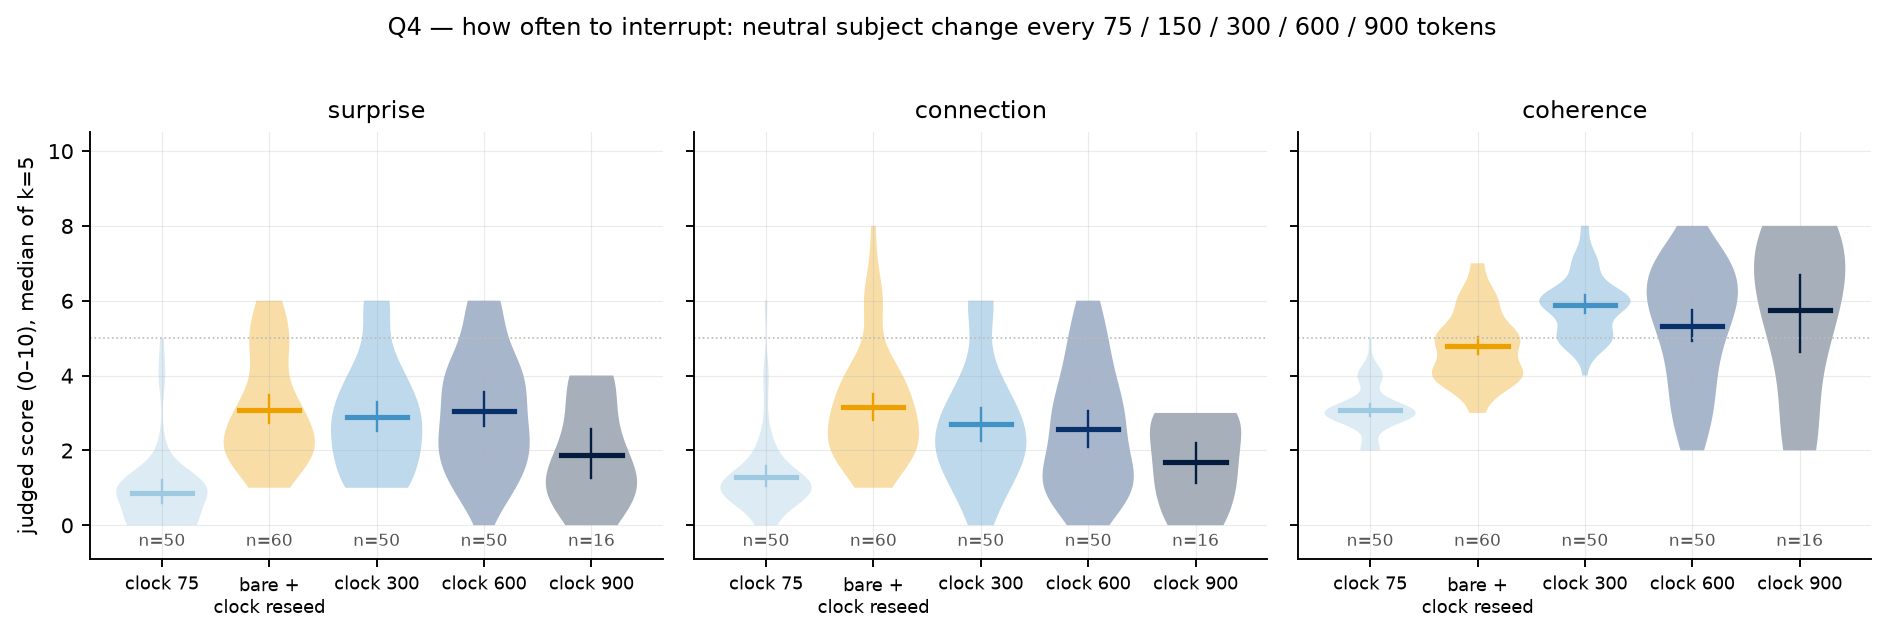
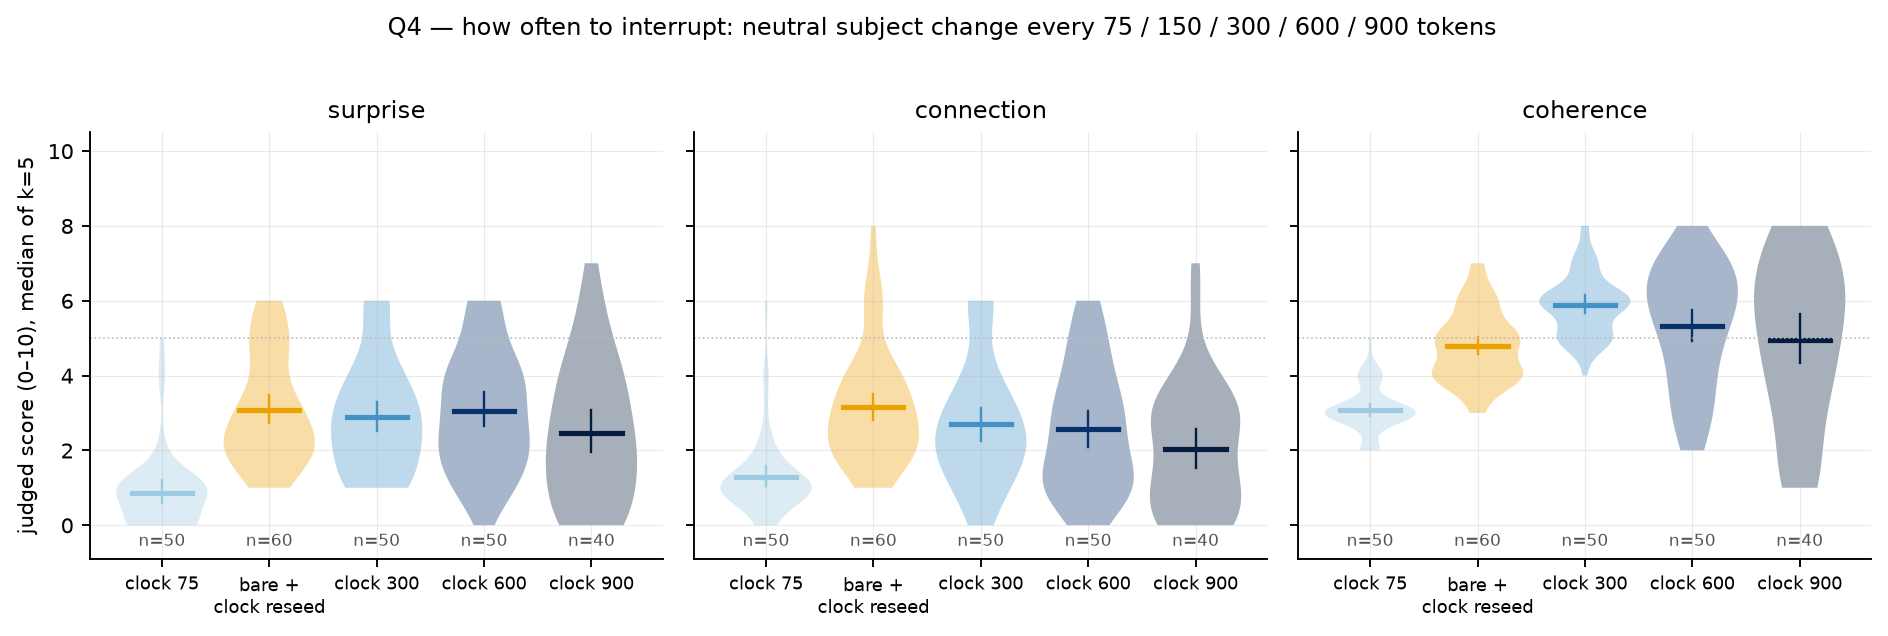
PAPER_DREAM §5.1: timing (salience is a good reader, a bad metronome) and frequency with phase-weighted stream means

diff --git a/scripts/analysis_b2.py b/scripts/analysis_b2.py
@@ -214,8 +214,8 @@ def main() -> None:
     # Q4b — phase: judged score vs tokens since the last injection, per frequency (all judged windows of the cell)
     freq = [("clock75", 75), ("bare_reseed", 150), ("clock300", 300), ("clock600", 600), ("clock900", 900)]
     md.append("\n### Q4b — phase within the segment: score by tokens since the last interruption (all judged windows, both kinds)\n")
-    md.append("| every | windows | pooled surprise | conn | coh | early (≤160 tokens since injection) S / C / H | late (>160) S / C / H |")
-    md.append("|---|---|---|---|---|---|---|")
+    md.append("| every | windows | pooled surprise | conn | coh | early (≤160 tokens since injection) S / C / H | late (>160) S / C / H | phase-weighted stream mean S / C / H |")
+    md.append("|---|---|---|---|---|---|---|---|")
     fig, axes = plt.subplots(1, 2, figsize=(12, 3.8))
     for cond, every in freq:
         rows = [r for r in sel(cond) if r.get("since_injection") is not None]
@@ -224,9 +224,17 @@ def main() -> None:
         early = [r for r in rows if r["since_injection"] <= 160]
         late = [r for r in rows if r["since_injection"] > 160]
         f = lambda rs, d: f"{np.mean([r[d] for r in rs]):.2f}" if rs else "—"
+        # the judged sample over-represents one phase; re-weight by the stream's actual phase composition
+        w_early = min(1.0, 160.0 / every)
+        def wmean(d):
+            e = np.mean([r[d] for r in early]) if early else np.nan
+            l = np.mean([r[d] for r in late]) if late else np.nan
+            if not late: return e
+            return w_early * e + (1 - w_early) * l
         md.append(f"| {every} | {len(rows)} | {f(rows,'surprise')} | {f(rows,'connection')} | {f(rows,'coherence')} | "
                   f"{f(early,'surprise')} / {f(early,'connection')} / {f(early,'coherence')} (n={len(early)}) | "
-                  f"{f(late,'surprise')} / {f(late,'connection')} / {f(late,'coherence')} (n={len(late)}) |")
+                  f"{f(late,'surprise')} / {f(late,'connection')} / {f(late,'coherence')} (n={len(late)}) | "
+                  f"{wmean('surprise'):.2f} / {wmean('connection'):.2f} / {wmean('coherence'):.2f} |")
         # binned curve
         bins = [(0, 160), (160, 320), (320, 480), (480, 640), (640, 1000)]
         xs, ys, es = [], [], []

diff --git a/docs/APPENDIX_B2.md b/docs/APPENDIX_B2.md
@@ -1,6 +1,6 @@
 # Appendix — battery 2 (auto-generated by scripts/analysis_b2.py)
 
-1063 judged windows total (801 from battery 2).
+1208 judged windows total (946 from battery 2).
 
 
 ### Q1 — the confound: habituation without interruption
@@ -54,36 +54,36 @@ vs **neutral subject change (clock 150)** (Δ mean, 95% bootstrap CI over window
 | condition | windows | kind | surprise | connection | coherence | good (S≥5&H≥5) |
 |---|---|---|---|---|---|---|
 | re-encounter on the clock (150) | 50 | cut | 2.68 ± 1.46 | 3.64 ± 1.57 | 4.72 ± 1.33 | 5/50 |
-| re-encounter on the clock (900; matched frequency) | 12 | cut | 2.83 ± 1.91 | 2.25 ± 1.74 | 3.92 ± 1.44 | 2/12 |
-| neutral change on the clock (900; matched frequency) | 16 | cut | 1.88 ± 1.32 | 1.69 ± 1.10 | 5.75 ± 2.02 | 0/16 |
+| re-encounter on the clock (900; matched frequency) | 40 | cut | 2.73 ± 1.95 | 2.30 ± 1.82 | 4.67 ± 1.59 | 6/40 |
+| neutral change on the clock (900; matched frequency) | 40 | cut | 2.48 ± 1.87 | 2.02 ± 1.68 | 4.95 ± 2.16 | 5/40 |
 | re-encounter on salience events (event windows) | 80 | crystallize/cut/jump/recurrence | 3.92 ± 1.42 | 2.99 ± 1.73 | 3.75 ± 1.18 | 8/80 |
 | re-encounter on salience events (uniform windows) | 60 | clock | 2.18 ± 2.04 | 1.68 ± 1.65 | 3.93 ± 1.88 | 4/60 |
-| re-encounter on the clock (900), uniform windows | 18 | clock | 4.39 ± 1.60 | 3.50 ± 1.54 | 5.00 ± 1.63 | 7/18 |
-| neutral change on the clock (900), uniform windows | 22 | clock | 5.45 ± 2.08 | 2.91 ± 2.00 | 5.95 ± 1.26 | 16/22 |
+| re-encounter on the clock (900), uniform windows | 60 | clock | 4.70 ± 1.69 | 3.48 ± 1.52 | 5.50 ± 1.41 | 31/60 |
+| neutral change on the clock (900), uniform windows | 60 | clock | 5.48 ± 1.64 | 2.87 ± 1.56 | 5.95 ± 1.32 | 45/60 |
 | salience only, no injection (event windows) | 38 | crystallize/jump/recurrence | 2.63 ± 1.75 | 1.39 ± 1.42 | 3.71 ± 1.60 | 2/38 |
 
 vs **re-encounter on the clock (150)** (Δ mean, 95% bootstrap CI over windows; Cliff's δ; Mann-Whitney p; paired-by-seed Δ [CI]):
 
 | condition | dim | Δ [CI] | δ | p | paired-by-seed Δ [CI] (n seeds) |
 |---|---|---|---|---|---|
-| re-encounter on the clock (900; matched frequency) | surprise | +0.15 [-0.97, +1.31] | +0.04 | 8.6e-01 | +0.50 [-0.55, +1.75] (3) |
-| re-encounter on the clock (900; matched frequency) | connection | **-1.39 [-2.41, -0.25]** | -0.46 | 1.2e-02 | -1.35 [-3.60, +1.00] (3) |
-| re-encounter on the clock (900; matched frequency) | coherence | -0.80 [-1.72, +0.08] | -0.29 | 1.1e-01 | -0.62 [-2.25, +1.55] (3) |
-| neutral change on the clock (900; matched frequency) | surprise | **-0.81 [-1.56, -0.02]** | -0.30 | 6.5e-02 | -0.68 [-1.75, +0.40] (4) |
-| neutral change on the clock (900; matched frequency) | connection | **-1.95 [-2.65, -1.27]** | -0.65 | 7.4e-05 | -1.81 [-3.07, -0.64] (4) |
-| neutral change on the clock (900; matched frequency) | coherence | +1.03 [-0.06, +2.06] | +0.36 | 3.0e-02 | +1.30 [+0.02, +2.57] (4) |
+| re-encounter on the clock (900; matched frequency) | surprise | +0.04 [-0.68, +0.78] | -0.03 | 8.1e-01 | +0.04 [-0.53, +0.66] (10) |
+| re-encounter on the clock (900; matched frequency) | connection | **-1.34 [-2.03, -0.62]** | -0.45 | 2.2e-04 | -1.34 [-2.17, -0.53] (10) |
+| re-encounter on the clock (900; matched frequency) | coherence | -0.04 [-0.65, +0.58] | -0.02 | 8.9e-01 | -0.05 [-0.87, +0.73] (10) |
+| neutral change on the clock (900; matched frequency) | surprise | -0.21 [-0.90, +0.51] | -0.10 | 4.4e-01 | -0.21 [-0.84, +0.36] (10) |
+| neutral change on the clock (900; matched frequency) | connection | **-1.62 [-2.28, -0.92]** | -0.51 | 2.5e-05 | -1.61 [-2.17, -1.13] (10) |
+| neutral change on the clock (900; matched frequency) | coherence | +0.23 [-0.56, +0.99] | +0.11 | 3.5e-01 | +0.23 [-0.45, +1.07] (10) |
 | re-encounter on salience events (event windows) | surprise | **+1.24 [+0.73, +1.75]** | +0.44 | 2.0e-05 | +1.10 [+0.34, +1.85] (10) |
 | re-encounter on salience events (event windows) | connection | **-0.65 [-1.23, -0.06]** | -0.24 | 2.2e-02 | -0.92 [-1.55, -0.29] (10) |
 | re-encounter on salience events (event windows) | coherence | **-0.97 [-1.41, -0.52]** | -0.39 | 1.5e-04 | -0.86 [-1.72, -0.06] (10) |
 | re-encounter on salience events (uniform windows) | surprise | -0.50 [-1.14, +0.15] | -0.21 | 5.5e-02 | -0.50 [-1.11, -0.01] (10) |
 | re-encounter on salience events (uniform windows) | connection | **-1.96 [-2.54, -1.35]** | -0.61 | 2.7e-08 | -1.96 [-2.62, -1.37] (10) |
 | re-encounter on salience events (uniform windows) | coherence | **-0.79 [-1.38, -0.19]** | -0.25 | 2.1e-02 | -0.79 [-1.31, -0.29] (10) |
-| re-encounter on the clock (900), uniform windows | surprise | **+1.71 [+0.81, +2.51]** | +0.58 | 2.4e-04 | +2.06 [+1.20, +2.67] (3) |
-| re-encounter on the clock (900), uniform windows | connection | -0.14 [-0.98, +0.68] | -0.02 | 9.3e-01 | -0.10 [-1.43, +1.33] (3) |
-| re-encounter on the clock (900), uniform windows | coherence | +0.28 [-0.55, +1.11] | +0.09 | 5.6e-01 | +0.47 [-0.07, +0.97] (3) |
-| neutral change on the clock (900), uniform windows | surprise | **+2.77 [+1.77, +3.68]** | +0.69 | 2.7e-06 | +2.85 [+1.46, +4.23] (4) |
-| neutral change on the clock (900), uniform windows | connection | -0.73 [-1.67, +0.22] | -0.25 | 9.2e-02 | -0.62 [-2.92, +1.57] (4) |
-| neutral change on the clock (900), uniform windows | coherence | **+1.23 [+0.56, +1.84]** | +0.53 | 2.5e-04 | +1.55 [+0.20, +2.38] (4) |
+| re-encounter on the clock (900), uniform windows | surprise | **+2.02 [+1.43, +2.60]** | +0.64 | 5.9e-09 | +2.02 [+1.62, +2.44] (10) |
+| re-encounter on the clock (900), uniform windows | connection | -0.16 [-0.74, +0.43] | -0.03 | 7.7e-01 | -0.16 [-0.68, +0.37] (10) |
+| re-encounter on the clock (900), uniform windows | coherence | **+0.78 [+0.29, +1.30]** | +0.31 | 4.4e-03 | +0.78 [+0.40, +1.15] (10) |
+| neutral change on the clock (900), uniform windows | surprise | **+2.80 [+2.23, +3.37]** | +0.77 | 1.9e-12 | +2.80 [+2.04, +3.59] (10) |
+| neutral change on the clock (900), uniform windows | connection | **-0.77 [-1.37, -0.18]** | -0.27 | 1.3e-02 | -0.77 [-1.78, +0.23] (10) |
+| neutral change on the clock (900), uniform windows | coherence | **+1.23 [+0.74, +1.73]** | +0.48 | 7.2e-06 | +1.23 [+0.56, +1.84] (10) |
 | salience only, no injection (event windows) | surprise | -0.05 [-0.73, +0.64] | -0.05 | 7.0e-01 | +0.18 [-0.80, +1.31] (10) |
 | salience only, no injection (event windows) | connection | **-2.25 [-2.87, -1.62]** | -0.73 | 3.8e-09 | -2.11 [-3.00, -1.16] (10) |
 | salience only, no injection (event windows) | coherence | **-1.01 [-1.64, -0.37]** | -0.35 | 4.5e-03 | -0.87 [-1.92, +0.12] (10) |
@@ -96,10 +96,10 @@ vs **re-encounter on the clock (150)** (Δ mean, 95% bootstrap CI over windows; 
 | every 150 (before injection) | 60 | clock | 3.08 ± 1.48 | 3.15 ± 1.53 | 4.78 ± 0.95 | 12/60 |
 | every 300 (before injection) | 50 | cut | 2.90 ± 1.50 | 2.70 ± 1.63 | 5.88 ± 0.82 | 7/50 |
 | every 600 (before injection) | 50 | cut | 3.06 ± 1.58 | 2.56 ± 1.66 | 5.32 ± 1.62 | 6/50 |
-| every 900 (before injection) | 16 | cut | 1.88 ± 1.32 | 1.69 ± 1.10 | 5.75 ± 2.02 | 0/16 |
+| every 900 (before injection) | 40 | cut | 2.48 ± 1.87 | 2.02 ± 1.68 | 4.95 ± 2.16 | 5/40 |
 | every 300 (mid-segment) | 60 | clock | 4.93 ± 1.53 | 3.47 ± 1.68 | 6.07 ± 0.98 | 34/60 |
 | every 600 (mid-segment) | 60 | clock | 4.12 ± 1.83 | 2.70 ± 1.63 | 5.65 ± 1.54 | 23/60 |
-| every 900 (mid-segment) | 22 | clock | 5.45 ± 2.08 | 2.91 ± 2.00 | 5.95 ± 1.26 | 16/22 |
+| every 900 (mid-segment) | 60 | clock | 5.48 ± 1.64 | 2.87 ± 1.56 | 5.95 ± 1.32 | 45/60 |
 
 vs **every 150 (before injection)** (Δ mean, 95% bootstrap CI over windows; Cliff's δ; Mann-Whitney p; paired-by-seed Δ [CI]):
 
@@ -114,48 +114,48 @@ vs **every 150 (before injection)** (Δ mean, 95% bootstrap CI over windows; Cli
 | every 600 (before injection) | surprise | -0.02 [-0.60, +0.54] | -0.00 | 9.8e-01 | -0.02 [-0.74, +0.60] (10) |
 | every 600 (before injection) | connection | -0.59 [-1.19, +0.01] | -0.21 | 4.9e-02 | -0.59 [-1.28, +0.03] (10) |
 | every 600 (before injection) | coherence | **+0.54 [+0.03, +1.03]** | +0.26 | 1.8e-02 | +0.54 [-0.09, +1.13] (10) |
-| every 900 (before injection) | surprise | **-1.21 [-1.94, -0.45]** | -0.45 | 5.3e-03 | -0.96 [-2.06, -0.21] (4) |
-| every 900 (before injection) | connection | **-1.46 [-2.12, -0.80]** | -0.53 | 9.8e-04 | -1.27 [-2.88, +0.08] (4) |
-| every 900 (before injection) | coherence | +0.97 [-0.09, +1.96] | +0.38 | 1.8e-02 | +0.79 [-1.40, +2.33] (4) |
+| every 900 (before injection) | surprise | -0.61 [-1.28, +0.08] | -0.21 | 6.7e-02 | -0.61 [-1.41, +0.18] (10) |
+| every 900 (before injection) | connection | **-1.12 [-1.78, -0.47]** | -0.38 | 1.1e-03 | -1.12 [-2.11, -0.26] (10) |
+| every 900 (before injection) | coherence | +0.17 [-0.56, +0.88] | +0.12 | 3.1e-01 | +0.17 [-0.79, +1.12] (10) |
 | every 300 (mid-segment) | surprise | **+1.85 [+1.30, +2.38]** | +0.60 | 9.0e-09 | +1.85 [+1.23, +2.33] (10) |
 | every 300 (mid-segment) | connection | +0.32 [-0.27, +0.88] | +0.13 | 2.0e-01 | +0.32 [-0.30, +0.77] (10) |
 | every 300 (mid-segment) | coherence | **+1.28 [+0.93, +1.62]** | +0.63 | 1.1e-09 | +1.28 [+0.88, +1.68] (10) |
 | every 600 (mid-segment) | surprise | **+1.03 [+0.45, +1.62]** | +0.33 | 1.3e-03 | +1.03 [+0.58, +1.47] (10) |
 | every 600 (mid-segment) | connection | -0.45 [-1.03, +0.10] | -0.17 | 9.1e-02 | -0.45 [-1.00, +0.17] (10) |
 | every 600 (mid-segment) | coherence | **+0.87 [+0.40, +1.32]** | +0.42 | 4.6e-05 | +0.87 [+0.32, +1.43] (10) |
-| every 900 (mid-segment) | surprise | **+2.37 [+1.40, +3.27]** | +0.64 | 6.9e-06 | +2.56 [+2.21, +2.94] (4) |
-| every 900 (mid-segment) | connection | -0.24 [-1.12, +0.69] | -0.13 | 3.7e-01 | -0.08 [-0.17, +0.00] (4) |
-| every 900 (mid-segment) | coherence | **+1.17 [+0.56, +1.72]** | +0.58 | 3.3e-05 | +1.04 [+0.42, +1.71] (4) |
+| every 900 (mid-segment) | surprise | **+2.40 [+1.83, +2.93]** | +0.70 | 1.5e-11 | +2.40 [+1.98, +2.78] (10) |
+| every 900 (mid-segment) | connection | -0.28 [-0.83, +0.27] | -0.09 | 3.8e-01 | -0.28 [-0.75, +0.10] (10) |
+| every 900 (mid-segment) | coherence | **+1.17 [+0.75, +1.57]** | +0.56 | 7.2e-08 | +1.17 [+0.78, +1.57] (10) |
 
 ### Q4b — phase within the segment: score by tokens since the last interruption (all judged windows, both kinds)
 
-| every | windows | pooled surprise | conn | coh | early (≤160 tokens since injection) S / C / H | late (>160) S / C / H |
-|---|---|---|---|---|---|---|
-| 75 | 60 | 0.88 | 1.35 | 3.15 | 0.88 / 1.35 / 3.15 (n=60) | — / — / — (n=0) |
-| 150 | 60 | 3.08 | 3.15 | 4.78 | 3.08 / 3.15 / 4.78 (n=60) | — / — / — (n=0) |
-| 300 | 110 | 4.01 | 3.12 | 5.98 | 5.28 / 3.35 / 5.95 (n=40) | 3.29 / 2.99 / 6.00 (n=70) |
-| 600 | 110 | 3.64 | 2.64 | 5.50 | 5.40 / 3.20 / 5.65 (n=20) | 3.24 / 2.51 / 5.47 (n=90) |
-| 900 | 38 | 3.95 | 2.39 | 5.87 | 6.00 / 2.87 / 6.20 (n=15) | 2.61 / 2.09 / 5.65 (n=23) |
+| every | windows | pooled surprise | conn | coh | early (≤160 tokens since injection) S / C / H | late (>160) S / C / H | phase-weighted stream mean S / C / H |
+|---|---|---|---|---|---|---|---|
+| 75 | 60 | 0.88 | 1.35 | 3.15 | 0.88 / 1.35 / 3.15 (n=60) | — / — / — (n=0) | 0.88 / 1.35 / 3.15 |
+| 150 | 60 | 3.08 | 3.15 | 4.78 | 3.08 / 3.15 / 4.78 (n=60) | — / — / — (n=0) | 3.08 / 3.15 / 4.78 |
+| 300 | 110 | 4.01 | 3.12 | 5.98 | 5.28 / 3.35 / 5.95 (n=40) | 3.29 / 2.99 / 6.00 (n=70) | 4.35 / 3.18 / 5.97 |
+| 600 | 110 | 3.64 | 2.64 | 5.50 | 5.40 / 3.20 / 5.65 (n=20) | 3.24 / 2.51 / 5.47 (n=90) | 3.82 / 2.69 / 5.52 |
+| 900 | 100 | 4.28 | 2.53 | 5.55 | 5.90 / 2.80 / 6.10 (n=40) | 3.20 / 2.35 / 5.18 (n=60) | 3.68 / 2.43 / 5.35 |
 
 ### Q5 — second generator family (Qwen3-8B-Base, 10 seeds)
 
 | condition | windows | kind | surprise | connection | coherence | good (S≥5&H≥5) |
 |---|---|---|---|---|---|---|
-| 8B: bare | 33 | clock/jump | 0.88 ± 1.34 | 0.55 ± 0.86 | 3.09 ± 1.98 | 0/33 |
-| 8B: bare + habituation | 18 | clock | 1.78 ± 1.55 | 0.67 ± 0.67 | 4.89 ± 2.60 | 2/18 |
-| 8B: bare + habituation + clock reseed 150 | 13 | clock/cut | 3.73 ± 1.62 | 4.23 ± 1.58 | 3.92 ± 0.83 | 0/13 |
-| 8B: DREAM scaffold (λ=0) | 31 | clock/crystallize/cut/jump | 1.74 ± 1.66 | 0.58 ± 0.66 | 3.81 ± 1.96 | 0/31 |
+| 8B: bare | 63 | clock/jump | 0.71 ± 1.30 | 0.43 ± 0.79 | 3.35 ± 2.42 | 1/63 |
+| 8B: bare + habituation | 30 | clock | 1.40 ± 1.54 | 0.73 ± 1.18 | 4.27 ± 2.34 | 2/30 |
+| 8B: bare + habituation + clock reseed 150 | 30 | clock/cut | 3.12 ± 1.40 | 3.50 ± 1.65 | 4.43 ± 0.96 | 0/30 |
+| 8B: DREAM scaffold (λ=0) | 81 | clock/crystallize/cut/jump | 2.72 ± 2.30 | 1.23 ± 1.27 | 4.06 ± 1.87 | 6/81 |
 
 vs **8B: bare + habituation** (Δ mean, 95% bootstrap CI over windows; Cliff's δ; Mann-Whitney p; paired-by-seed Δ [CI]):
 
 | condition | dim | Δ [CI] | δ | p | paired-by-seed Δ [CI] (n seeds) |
 |---|---|---|---|---|---|
-| 8B: bare | surprise | **-0.90 [-1.76, -0.09]** | -0.38 | 1.7e-02 | -0.90 [-1.80, -0.03] (3) |
-| 8B: bare | connection | -0.12 [-0.54, +0.29] | -0.15 | 3.1e-01 | -0.12 [-0.50, +0.29] (3) |
-| 8B: bare | coherence | **-1.80 [-3.14, -0.42]** | -0.36 | 3.1e-02 | -1.80 [-5.64, +1.61] (3) |
-| 8B: bare + habituation + clock reseed 150 | surprise | **+1.95 [+0.76, +3.07]** | +0.59 | 5.1e-03 | +1.75 [+0.17, +4.25] (3) |
-| 8B: bare + habituation + clock reseed 150 | connection | **+3.56 [+2.62, +4.43]** | +0.94 | 7.1e-06 | +3.22 [+2.50, +4.67] (3) |
-| 8B: bare + habituation + clock reseed 150 | coherence | -0.97 [-2.22, +0.35] | -0.38 | 7.4e-02 | -0.39 [-2.33, +2.17] (3) |
-| 8B: DREAM scaffold (λ=0) | surprise | -0.04 [-0.99, +0.87] | -0.04 | 8.0e-01 | — |
-| 8B: DREAM scaffold (λ=0) | connection | -0.09 [-0.47, +0.29] | -0.07 | 6.5e-01 | — |
-| 8B: DREAM scaffold (λ=0) | coherence | -1.08 [-2.44, +0.29] | -0.24 | 1.6e-01 | — |
+| 8B: bare | surprise | **-0.69 [-1.34, -0.06]** | -0.30 | 9.2e-03 | -0.75 [-1.29, -0.25] (5) |
+| 8B: bare | connection | -0.30 [-0.82, +0.12] | -0.17 | 1.0e-01 | -0.37 [-0.82, +0.04] (5) |
+| 8B: bare | coherence | -0.92 [-1.95, +0.12] | -0.23 | 7.4e-02 | -1.58 [-3.78, +0.32] (5) |
+| 8B: bare + habituation + clock reseed 150 | surprise | **+1.72 [+0.97, +2.45]** | +0.59 | 6.4e-05 | +1.72 [+0.47, +3.18] (5) |
+| 8B: bare + habituation + clock reseed 150 | connection | **+2.77 [+2.03, +3.47]** | +0.86 | 5.2e-09 | +2.77 [+1.47, +4.07] (5) |
+| 8B: bare + habituation + clock reseed 150 | coherence | +0.17 [-0.73, +1.07] | +0.04 | 7.8e-01 | +0.17 [-1.47, +1.67] (5) |
+| 8B: DREAM scaffold (λ=0) | surprise | **+1.32 [+0.58, +2.05]** | +0.35 | 4.4e-03 | +1.22 [+0.28, +2.01] (5) |
+| 8B: DREAM scaffold (λ=0) | connection | +0.50 [-0.02, +0.97] | +0.28 | 1.8e-02 | +0.47 [-0.06, +0.96] (5) |
+| 8B: DREAM scaffold (λ=0) | coherence | -0.20 [-1.15, +0.72] | -0.04 | 7.2e-01 | -0.16 [-1.72, +1.05] (5) |

diff --git a/docs/APPENDIX_HIDDEN_b2.md b/docs/APPENDIX_HIDDEN_b2.md
@@ -16,46 +16,46 @@
 | clock 300 | 10 | 0.570 | 0.502 | 0.548 | 0.573 | 0.583 | 0.583 | 0.597 | 0.590 | 0.601 | 0.614 | 0.563 | 0.549 | 0.575 | 10.93 [10.91, 10.95] | 0.52 |
 | clock 600 | 10 | 0.579 | 0.491 | 0.482 | 0.493 | 0.513 | 0.512 | 0.511 | 0.501 | 0.507 | 0.510 | 0.495 | 0.509 | 0.561 | 10.88 [10.83, 10.92] | 0.86 |
 
-## H2 — which layer's novelty predicts judged surprise? (670 judged windows)
+## H2 — which layer's novelty predicts judged surprise? (794 judged windows)
 
 
 **novelty vs everything before the window** — Spearman with judged surprise
 
 | layer | ρ pooled | p | ρ within bare + habituation | ρ within clock: re-encounter | ρ within clock: premise | ρ within clock: own past | ρ within salience: re-encounter | ρ within clock 75 | ρ within clock 300 | ρ within clock 600 |
 |---|---|---|---|---|---|---|---|---|---|---|
-| 0 | +0.49 | 6.6e-42 | +0.29 | +0.30 | +0.50 | +0.31 | +0.35 | -0.23 | +0.14 | -0.03 |
-| 4 | +0.35 | 2.4e-20 | +0.07 | +0.11 | +0.42 | +0.35 | -0.00 | -0.06 | +0.18 | -0.11 |
-| 8 | +0.24 | 4.1e-10 | +0.02 | +0.02 | +0.28 | +0.38 | -0.19 | +0.02 | +0.13 | -0.15 |
-| 12 | +0.22 | 9.2e-09 | -0.03 | +0.03 | +0.31 | +0.39 | -0.27 | +0.03 | +0.16 | -0.13 |
-| 16 | +0.24 | 5.9e-10 | -0.05 | +0.03 | +0.34 | +0.38 | -0.26 | +0.07 | +0.18 | -0.12 |
-| 20 | +0.20 | 1.1e-07 | -0.12 | +0.03 | +0.37 | +0.36 | -0.31 | +0.10 | +0.19 | -0.12 |
-| 24 | +0.18 | 3.9e-06 | -0.14 | +0.06 | +0.39 | +0.35 | -0.34 | +0.11 | +0.19 | -0.10 |
-| 28 | +0.15 | 1.2e-04 | -0.16 | +0.05 | +0.35 | +0.30 | -0.41 | +0.10 | +0.19 | -0.11 |
-| 32 | +0.14 | 1.9e-04 | -0.15 | +0.06 | +0.38 | +0.28 | -0.40 | +0.11 | +0.21 | -0.12 |
-| 36 | +0.13 | 1.0e-03 | -0.16 | +0.04 | +0.39 | +0.30 | -0.43 | +0.11 | +0.21 | -0.10 |
-| 40 | +0.18 | 2.6e-06 | -0.09 | +0.01 | +0.45 | +0.21 | -0.41 | +0.02 | +0.22 | -0.14 |
-| 44 | +0.21 | 3.2e-08 | -0.09 | -0.01 | +0.52 | +0.19 | -0.35 | -0.07 | +0.20 | -0.14 |
-| 47 | +0.12 | 2.1e-03 | -0.30 | -0.07 | +0.45 | +0.26 | -0.42 | +0.02 | +0.17 | -0.21 |
+| 0 | +0.47 | 6.8e-46 | +0.29 | +0.30 | +0.50 | +0.31 | +0.35 | -0.23 | +0.14 | -0.03 |
+| 4 | +0.30 | 4.7e-18 | +0.07 | +0.11 | +0.42 | +0.35 | -0.00 | -0.06 | +0.18 | -0.11 |
+| 8 | +0.19 | 1.3e-07 | +0.02 | +0.02 | +0.28 | +0.38 | -0.19 | +0.02 | +0.13 | -0.15 |
+| 12 | +0.16 | 4.0e-06 | -0.03 | +0.03 | +0.31 | +0.39 | -0.27 | +0.03 | +0.16 | -0.13 |
+| 16 | +0.18 | 3.9e-07 | -0.05 | +0.03 | +0.34 | +0.38 | -0.26 | +0.07 | +0.18 | -0.12 |
+| 20 | +0.14 | 6.0e-05 | -0.12 | +0.03 | +0.37 | +0.36 | -0.31 | +0.10 | +0.19 | -0.12 |
+| 24 | +0.11 | 1.5e-03 | -0.14 | +0.06 | +0.39 | +0.35 | -0.34 | +0.11 | +0.19 | -0.10 |
+| 28 | +0.08 | 2.5e-02 | -0.16 | +0.05 | +0.35 | +0.30 | -0.41 | +0.10 | +0.19 | -0.11 |
+| 32 | +0.07 | 3.9e-02 | -0.15 | +0.06 | +0.38 | +0.28 | -0.40 | +0.11 | +0.21 | -0.12 |
+| 36 | +0.05 | 1.4e-01 | -0.16 | +0.04 | +0.39 | +0.30 | -0.43 | +0.11 | +0.21 | -0.10 |
+| 40 | +0.11 | 1.5e-03 | -0.09 | +0.01 | +0.45 | +0.21 | -0.41 | +0.02 | +0.22 | -0.14 |
+| 44 | +0.14 | 5.1e-05 | -0.09 | -0.01 | +0.52 | +0.19 | -0.35 | -0.07 | +0.20 | -0.14 |
+| 47 | +0.04 | 2.2e-01 | -0.30 | -0.07 | +0.45 | +0.26 | -0.42 | +0.02 | +0.17 | -0.21 |
 
 **local step vs the previous 160 tokens** — Spearman with judged surprise
 
 | layer | ρ pooled | p | ρ within bare + habituation | ρ within clock: re-encounter | ρ within clock: premise | ρ within clock: own past | ρ within salience: re-encounter | ρ within clock 75 | ρ within clock 300 | ρ within clock 600 |
 |---|---|---|---|---|---|---|---|---|---|---|
-| 0 | +0.47 | 7.1e-38 | +0.77 | +0.33 | +0.58 | +0.30 | +0.37 | -0.34 | +0.46 | +0.31 |
-| 4 | +0.57 | 2.2e-58 | +0.67 | +0.43 | +0.64 | +0.26 | +0.35 | -0.19 | +0.63 | +0.34 |
-| 8 | +0.57 | 4.1e-59 | +0.59 | +0.34 | +0.69 | +0.27 | +0.30 | +0.11 | +0.59 | +0.30 |
-| 12 | +0.55 | 3.5e-55 | +0.54 | +0.31 | +0.69 | +0.31 | +0.31 | +0.13 | +0.56 | +0.29 |
-| 16 | +0.55 | 5.5e-54 | +0.49 | +0.29 | +0.67 | +0.33 | +0.30 | +0.11 | +0.56 | +0.30 |
-| 20 | +0.51 | 4.9e-46 | +0.41 | +0.25 | +0.68 | +0.32 | +0.27 | +0.17 | +0.51 | +0.32 |
-| 24 | +0.48 | 3.0e-40 | +0.36 | +0.23 | +0.65 | +0.29 | +0.24 | +0.19 | +0.58 | +0.31 |
-| 28 | +0.44 | 4.8e-33 | +0.27 | +0.24 | +0.65 | +0.29 | +0.18 | +0.19 | +0.52 | +0.31 |
-| 32 | +0.42 | 1.3e-29 | +0.23 | +0.26 | +0.63 | +0.30 | +0.14 | +0.21 | +0.46 | +0.30 |
-| 36 | +0.41 | 6.8e-28 | +0.22 | +0.27 | +0.63 | +0.32 | +0.13 | +0.16 | +0.48 | +0.29 |
-| 40 | +0.45 | 2.3e-35 | +0.27 | +0.31 | +0.65 | +0.28 | +0.20 | +0.04 | +0.49 | +0.26 |
-| 44 | +0.47 | 1.5e-38 | +0.30 | +0.31 | +0.60 | +0.23 | +0.22 | +0.01 | +0.45 | +0.27 |
-| 47 | +0.35 | 5.8e-21 | +0.15 | +0.24 | +0.58 | +0.33 | +0.22 | +0.21 | +0.35 | +0.07 |
+| 0 | +0.49 | 3.9e-48 | +0.77 | +0.33 | +0.58 | +0.30 | +0.37 | -0.34 | +0.46 | +0.31 |
+| 4 | +0.58 | 3.8e-72 | +0.67 | +0.43 | +0.64 | +0.26 | +0.35 | -0.19 | +0.63 | +0.34 |
+| 8 | +0.58 | 4.8e-73 | +0.59 | +0.34 | +0.69 | +0.27 | +0.30 | +0.11 | +0.59 | +0.30 |
+| 12 | +0.56 | 1.3e-67 | +0.54 | +0.31 | +0.69 | +0.31 | +0.31 | +0.13 | +0.56 | +0.29 |
+| 16 | +0.56 | 4.0e-66 | +0.49 | +0.29 | +0.67 | +0.33 | +0.30 | +0.11 | +0.56 | +0.30 |
+| 20 | +0.52 | 3.6e-56 | +0.41 | +0.25 | +0.68 | +0.32 | +0.27 | +0.17 | +0.51 | +0.32 |
+| 24 | +0.49 | 3.3e-49 | +0.36 | +0.23 | +0.65 | +0.29 | +0.24 | +0.19 | +0.58 | +0.31 |
+| 28 | +0.45 | 4.1e-41 | +0.27 | +0.24 | +0.65 | +0.29 | +0.18 | +0.19 | +0.52 | +0.31 |
+| 32 | +0.43 | 1.1e-36 | +0.23 | +0.26 | +0.63 | +0.30 | +0.14 | +0.21 | +0.46 | +0.30 |
+| 36 | +0.41 | 3.9e-34 | +0.22 | +0.27 | +0.63 | +0.32 | +0.13 | +0.16 | +0.48 | +0.29 |
+| 40 | +0.47 | 9.8e-45 | +0.27 | +0.31 | +0.65 | +0.28 | +0.20 | +0.04 | +0.49 | +0.26 |
+| 44 | +0.48 | 4.7e-48 | +0.30 | +0.31 | +0.60 | +0.23 | +0.22 | +0.01 | +0.45 | +0.27 |
+| 47 | +0.36 | 6.1e-26 | +0.15 | +0.24 | +0.58 | +0.33 | +0.22 | +0.21 | +0.35 | +0.07 |
 
-Commitment layer (mean first-agreeing captured layer) vs surprise: ρ=-0.15 (p=6.4e-05); final entropy vs surprise: ρ=+0.34 (p=2.9e-19).
+Commitment layer (mean first-agreeing captured layer) vs surprise: ρ=-0.12 (p=5.6e-04); final entropy vs surprise: ρ=+0.39 (p=5.8e-31).
 - within bare + habituation: commit ρ=-0.02 (p=9.1e-01), final entropy ρ=+0.58 (p=1.2e-05), mean commit 10.91, mean surprise 1.24
 - within clock: re-encounter: commit ρ=-0.19 (p=1.4e-01), final entropy ρ=+0.08 (p=5.6e-01), mean commit 10.91, mean surprise 2.55
 - within clock: premise: commit ρ=-0.25 (p=5.9e-02), final entropy ρ=+0.58 (p=1.4e-06), mean commit 11.11, mean surprise 1.02

diff --git a/docs/PAPER_DREAM.md b/docs/PAPER_DREAM.md
@@ -229,26 +229,40 @@ bootstrap CIs over the 10 seeds; Cliff's δ and Mann–Whitney on windows).
   a literal return closes the loop. (Windows ending before 100 generated
   tokens — the two-token fragment before the first clock cut — are
   excluded throughout; 73 such windows, mean surprise 0.95.)
-- **Timing.** [TBD — salience-timed re-encounter vs matched-frequency
-  clock controls; judging]
+- **Timing: salience is a good reader and a bad metronome.** The
+  re-encounter stitch injected on salience events (jump, crystallization,
+  recurrence; 1–9 per cell, median ≈5) makes the *event windows* better
+  than salience-only without injection (3.92 / 2.99 / 3.75 vs 2.63 / 1.39
+  / 3.71; connection Δ +1.6) — but the *stream* it produces is poor:
+  uniform windows 2.18 / 1.68 / 3.93, against **4.70 / 3.48 / 5.50** for
+  the same stitch on a clock of matched frequency (every 900 tokens;
+  surprise Δ +2.02 [+1.62, +2.44] paired by seed, coherence +0.78 [+0.40,
+  +1.15]) and 5.48 / 2.87 / 5.95 for a neutral change every 900 (45/60
+  windows surprising *and* coherent — the best cell of the program).
+  Salience events select good moments to look at, which is why
+  salience-gated review beat clock review earlier (§5, dream_def); but as
+  an interruption trigger they fire unevenly and rarely, leaving streams
+  stuck for thousands of tokens. Salience should decide *where to look*,
+  not *when to interrupt*.
 - **Frequency: the yield of an interruption depends on the thread it
   breaks, and decays with distance from it.** With the neutral change
   every 75 tokens the stream is dead (surprise 0.88, δ = −0.83 vs 150):
-  nothing has time to develop. Every 150: 3.08. Every 300 and 600, the
-  windows that end within ~150 tokens *after* an interruption score
-  **5.28 / 3.60 / 6.08** and 5.23 / 3.10 / 5.70 (surprise / connection /
-  coherence; n = 50 and 30) — the highest values in the whole program,
-  and 34/60 of the 300-early windows are judged surprising *and*
-  coherent (12/60 at 150) — while windows deeper into the segment fall
-  back to ~3.0 / 2.7 / 5.9 and stay there (170–330 and 490–650 tokens
-  after the break: 2.95 and 3.06). The same window shape (a break plus
-  150 tokens of development) scores 3.08 when the broken thread was 150
-  tokens long and 5.3 when it was 300 or 600: surprise needs a developed
-  background to break. Over the whole stream the period 300 is best
-  (mean surprise 4.01, connection 3.12, coherence 5.98; 600: 3.64 /
-  2.64 / 5.50; 150: 3.08 / 3.15 / 4.78; 75: 0.88 / 1.35 / 3.15). The
-  loop's rhythm is: let a thread develop for a few hundred tokens, then
-  break it away.
+  nothing has time to develop. Every 150: 3.08. Every 300, 600 and 900,
+  the windows that end within ~160 tokens *after* an interruption score
+  **5.28 / 3.35 / 5.95**, 5.40 / 3.20 / 5.65 and 5.90 / 2.80 / 6.10
+  (surprise / connection / coherence; n = 40, 20, 40) — the highest values
+  in the program, with 34/60 of the 300-early windows judged surprising
+  *and* coherent (12/60 at 150) — while windows deeper into a segment
+  fall back to ≈3.2–3.3 surprise and stay there (300: 3.29 / 2.99 /
+  6.00; 600: 3.24; 900: 3.20). The same window shape (a break plus 150
+  tokens of development) scores 3.08 when the broken thread was 150
+  tokens long and 5.3–5.9 when it was 300–900: surprise needs a developed
+  background to break. Weighting the two phases by their share of the
+  stream (160/period), the period 300 gives the best stream — 4.35 /
+  3.18 / 5.97 — against 3.82 / 2.69 / 5.52 (600), 3.68 / 2.43 / 5.35
+  (900), 3.08 / 3.15 / 4.78 (150) and 0.88 / 1.35 / 3.15 (75); connection
+  falls as segments lengthen. The loop's rhythm is: let a thread develop
+  for a few hundred tokens, then break it away.
 
 ### 5.2 A second generator family
 
